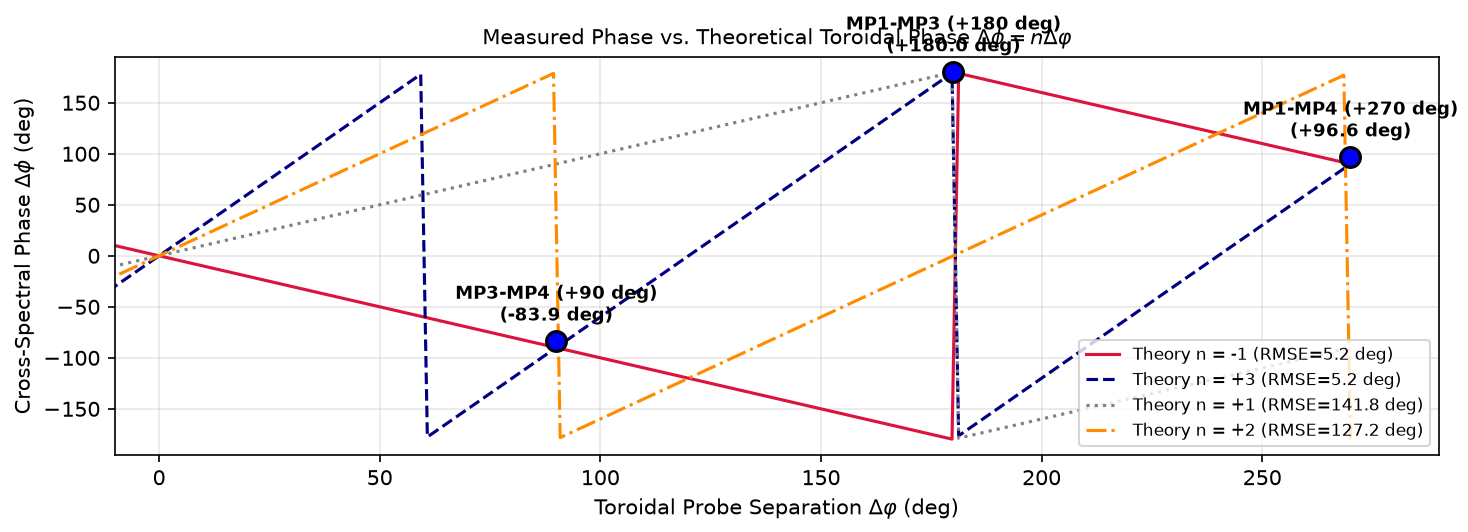
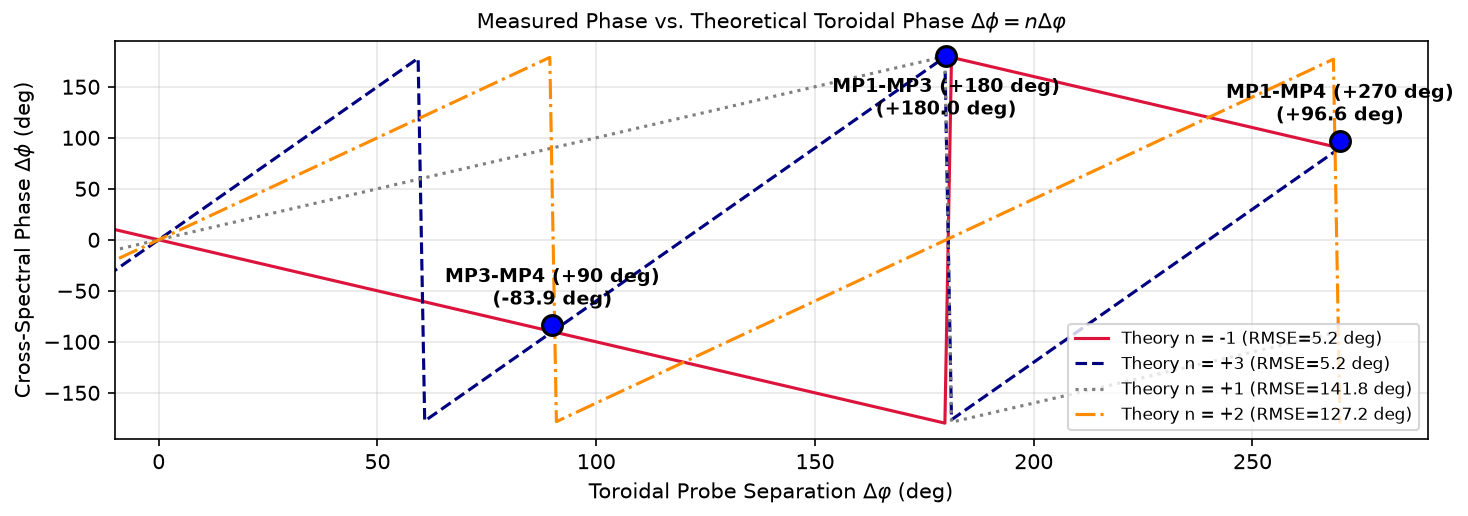
obj1: resolve toroidal panel title overlap with shared layout and smart annotation placement

diff --git a/analysis/heating_phase_comparison/mhd_compare_toroidal_and_radial.py b/analysis/heating_phase_comparison/mhd_compare_toroidal_and_radial.py
@@ -22,7 +22,8 @@ for p_add in [root_dir / "jpack", root_dir / "analysis", root_dir / "analysis" /
 from comparison_common import (
     DEFAULT_SHOT, DEFAULT_OUT_DIR,
     T_W1_START, T_W1_END, T_W2_START, T_W2_END,
-    PROBE_ANGLES_TOR, load_channel, load_signals, safe_savefig
+    PROBE_ANGLES_TOR, load_channel, load_signals, safe_savefig,
+    plot_toroidal_phase_panel, extract_panel_axes
 )
 
 
@@ -114,27 +115,7 @@ def run_toroidal_and_radial_comparison(shot=DEFAULT_SHOT, out_dir=None, verbose=
         axs_tor[0].legend(loc="upper right", fontsize=8.5)
         axs_tor[0].grid(True, alpha=0.3)
 
-        d_angles_plot = np.linspace(-180, 270, 300)
-        measured_dphi = [measured_pairs[("MP1", "MP3")]["d_tor_deg"], measured_pairs[("MP1", "MP4")]["d_tor_deg"], measured_pairs[("MP3", "MP4")]["d_tor_deg"]]
-        measured_phases_deg = [measured_pairs[("MP1", "MP3")]["phase_deg"], measured_pairs[("MP1", "MP4")]["phase_deg"], measured_pairs[("MP3", "MP4")]["phase_deg"]]
-        pair_names = ["MP1-MP3 (+180 deg)", "MP1-MP4 (+270 deg)", "MP3-MP4 (+90 deg)"]
-
-        for n_test, col, ls in [(-1, "crimson", "-"), (+3, "navy", "--"), (+1, "gray", ":"), (+2, "darkorange", "-.")]:
-            theo_line = [(n_test * np.radians(a) + np.pi) % (2 * np.pi) - np.pi for a in d_angles_plot]
-            axs_tor[1].plot(d_angles_plot, np.degrees(theo_line), color=col, ls=ls, lw=1.5,
-                            label=f"Theory n = {n_test:+d} (RMSE={n_fit_results[n_test]['rmse_deg']:.1f} deg)")
-
-        for a, p, lbl in zip(measured_dphi, measured_phases_deg, pair_names):
-            axs_tor[1].scatter([a], [p], color="blue", s=90, zorder=5, edgecolors="black", lw=1.5)
-            axs_tor[1].annotate(f"{lbl}\n({p:+.1f} deg)", (a, p), textcoords="offset points", xytext=(0, 10), ha="center", fontsize=8.5, fontweight="bold")
-
-        axs_tor[1].set_xlim(-10, 290)
-        axs_tor[1].set_ylim(-195, 195)
-        axs_tor[1].set_xlabel(r"Toroidal Probe Separation $\Delta\varphi$ (deg)")
-        axs_tor[1].set_ylabel(r"Cross-Spectral Phase $\Delta\phi$ (deg)")
-        axs_tor[1].set_title(r"Measured Phase vs. Theoretical Toroidal Phase $\Delta\phi = n \Delta\varphi$", fontsize=10)
-        axs_tor[1].legend(loc="lower right", fontsize=8)
-        axs_tor[1].grid(True, alpha=0.3)
+        plot_toroidal_phase_panel(axs_tor[1], measured_pairs, n_fit_results)
 
         rmse_plot = [n_fit_results[n]["rmse_deg"] for n in n_candidates]
         bar_cols = ["forestgreen" if r < 15.0 else "lightcoral" for r in rmse_plot]
@@ -150,8 +131,13 @@ def run_toroidal_and_radial_comparison(shot=DEFAULT_SHOT, out_dir=None, verbose=
         plt.tight_layout()
         out_path_tor = out_dir / out_png_tor
         safe_savefig(fig_tor, out_path_tor, dpi=150)
+        panel_dir = out_dir / "panels"
+        panel_dir.mkdir(parents=True, exist_ok=True)
+        out_p2 = panel_dir / f"{Path(out_png_tor).stem}_panel2_measured_phase_vs_theoretical_toroidal_p.png"
+        extract_panel_axes(fig_tor, axs_tor[1], out_p2, dpi=150)
         plt.close(fig_tor)
         print(f"    Saved figure: {out_path_tor.name}")
+        print(f"    Saved extracted panel 2: {out_p2.name}")
 
         # ECE & HAFAST Radial Profiles
         b_band, a_band = dsp.bessel(4, [(mode_freq - 10.0) * 1e3 / (fs / 2.0), (mode_freq + 10.0) * 1e3 / (fs / 2.0)], btype="bandpass")

diff --git a/analysis/heating_phase_comparison/comparison_common.py b/analysis/heating_phase_comparison/comparison_common.py
@@ -103,3 +103,67 @@ def load_signals(shot=DEFAULT_SHOT, data_dir=None):
             pmp_signals[ch] = ys
 
     return time_ms, dt_s, fs, signals_dict, pmp_signals
+
+
+def plot_toroidal_phase_panel(ax, measured, fits, title=None):
+    """Draw the Measured Phase vs. Theoretical Toroidal Phase panel with consistent layout."""
+    d_angles_plot = np.linspace(-180, 270, 300)
+    for n_test, col, ls in [(-1, "crimson", "-"), (+3, "navy", "--"), (+1, "gray", ":"), (+2, "darkorange", "-.")]:
+        theo_line = [(n_test * np.radians(a) + np.pi) % (2 * np.pi) - np.pi for a in d_angles_plot]
+        rmse_val = fits[n_test]["rmse_deg"] if isinstance(fits[n_test], dict) else fits[n_test]
+        ax.plot(d_angles_plot, np.degrees(theo_line), color=col, ls=ls, lw=1.5,
+                label=f"Theory n = {n_test:+d} (RMSE={rmse_val:.1f} deg)")
+
+    pair_labels = {
+        ("MP1", "MP3"): "MP1-MP3 (+180 deg)",
+        ("MP1", "MP4"): "MP1-MP4 (+270 deg)",
+        ("MP3", "MP4"): "MP3-MP4 (+90 deg)",
+    }
+    for pair_key, lbl in pair_labels.items():
+        pdict = measured[pair_key]
+        a = pdict["d_tor_deg"]
+        ph = pdict["phase_deg"]
+        ax.scatter([a], [ph], color="blue", s=90, zorder=5, edgecolors="black", lw=1.5)
+        # Avoid title overlap when phase is near top (>100 deg) and legend overlap near bottom
+        if ph > 100:
+            xytext = (0, -28)
+            ha = "center"
+        elif ph < -100 and a > 120:
+            xytext = (-10, 10)
+            ha = "right"
+        else:
+            xytext = (0, 10)
+            ha = "center"
+        ax.annotate(f"{lbl}\n({ph:+.1f} deg)", (a, ph), textcoords="offset points",
+                    xytext=xytext, ha=ha, fontsize=9.0, fontweight="bold")
+
+    ax.set_xlim(-10, 290)
+    ax.set_ylim(-195, 195)
+    ax.set_xlabel(r"Toroidal Probe Separation $\Delta\varphi$ (deg)", fontsize=10)
+    ax.set_ylabel(r"Cross-Spectral Phase $\Delta\phi$ (deg)", fontsize=10)
+    if title is None:
+        title = r"Measured Phase vs. Theoretical Toroidal Phase $\Delta\phi = n \Delta\varphi$"
+    ax.set_title(title, fontsize=10)
+    ax.legend(loc="lower right", fontsize=8.0)
+    ax.grid(True, alpha=0.3)
+
+
+def extract_panel_axes(fig, ax, out_path, dpi=150, pad=0.08, facecolor=None, edgecolor='none'):
+    """Extract a single panel axes from a figure using tightbbox and specified padding."""
+    import matplotlib.transforms as mtransforms
+    fig.canvas.draw()
+    renderer = fig.canvas.get_renderer()
+    bbox_display = ax.get_tightbbox(renderer)
+    if bbox_display is None:
+        bbox_display = ax.get_window_extent(renderer)
+    bbox_inches = bbox_display.transformed(fig.dpi_scale_trans.inverted())
+    bbox_padded = mtransforms.Bbox.from_extents(
+        bbox_inches.x0 - pad, bbox_inches.y0 - pad,
+        bbox_inches.x1 + pad, bbox_inches.y1 + pad
+    )
+    fc = facecolor if facecolor is not None else fig.get_facecolor()
+    out_path = Path(out_path)
+    out_path.parent.mkdir(parents=True, exist_ok=True)
+    fig.savefig(str(out_path), dpi=dpi, bbox_inches=bbox_padded,
+                facecolor=fc, edgecolor=edgecolor, pad_inches=0)
+

diff --git a/analysis/heating_phase_comparison/mhd_compare_toroidal_secondary.py b/analysis/heating_phase_comparison/mhd_compare_toroidal_secondary.py
@@ -38,7 +38,8 @@ for p_add in [root_dir / "jpack", root_dir / "analysis", root_dir / "analysis" /
 
 from comparison_common import (
     DEFAULT_SHOT, T_W1_START, T_W1_END, T_W2_START, T_W2_END,
-    PROBE_ANGLES_TOR, load_signals, safe_savefig
+    PROBE_ANGLES_TOR, load_signals, safe_savefig,
+    plot_toroidal_phase_panel, extract_panel_axes
 )
 
 DEFAULT_IMG_DIR = root_dir / "Images" / "heating_phase_comparison"
@@ -98,30 +99,14 @@ def run_secondary_toroidal(shot=DEFAULT_SHOT, img_dir=None):
         # Single panel, same layout as panel 2 of the primary-mode toroidal figure
         plt.rcdefaults()
         fig, ax = plt.subplots(1, 1, figsize=(10, 3.67))
-        d_angles_plot = np.linspace(-180, 270, 300)
-        for n_test, col, ls in [(-1, "crimson", "-"), (+3, "navy", "--"), (+1, "gray", ":"), (+2, "darkorange", "-.")]:
-            theo_line = [(n_test * np.radians(a) + np.pi) % (2 * np.pi) - np.pi for a in d_angles_plot]
-            ax.plot(d_angles_plot, np.degrees(theo_line), color=col, ls=ls, lw=1.5,
-                    label=f"Theory n = {n_test:+d} (RMSE={fits[n_test]:.1f} deg)")
-        names = {("MP1", "MP3"): "MP1-MP3 (+180 deg)", ("MP1", "MP4"): "MP1-MP4 (+270 deg)",
-                 ("MP3", "MP4"): "MP3-MP4 (+90 deg)"}
-        for pr, pdict in measured.items():
-            a, ph = pdict["d_tor_deg"], pdict["phase_deg"]
-            ax.scatter([a], [ph], color="blue", s=90, zorder=5, edgecolors="black", lw=1.5)
-            ax.annotate(f"{names[pr]}\n({ph:+.1f} deg)", (a, ph), textcoords="offset points",
-                        xytext=(0, 10), ha="center", fontsize=8.5, fontweight="bold")
-        ax.set_xlim(-10, 290)
-        ax.set_ylim(-195, 195)
-        ax.set_xlabel(r"Toroidal Probe Separation $\Delta\varphi$ (deg)")
-        ax.set_ylabel(r"Cross-Spectral Phase $\Delta\phi$ (deg)")
-        ax.set_title(rf"Secondary Mode ({mode_freq:.1f} kHz): Measured vs. Theoretical Toroidal Phase "
-                     r"$\Delta\phi = n \Delta\varphi$", fontsize=10)
-        ax.legend(loc="lower right", fontsize=8)
-        ax.grid(True, alpha=0.3)
+        plot_toroidal_phase_panel(
+            ax, measured, fits,
+            title=rf"Secondary Mode ({mode_freq:.1f} kHz): Measured vs. Theoretical Toroidal Phase $\Delta\phi = n \Delta\varphi$"
+        )
         plt.tight_layout()
         out_png = panel_dir / (f"mhd_secondary_mode_toroidal_n_shot_{shot}_{tag}"
                                "_panel2_measured_phase_vs_theoretical_toroidal_p.png")
-        safe_savefig(fig, out_png, dpi=150)
+        extract_panel_axes(fig, ax, out_png, dpi=150)
         plt.close(fig)
         print(f"    Saved figure: {out_png.name}")
 
